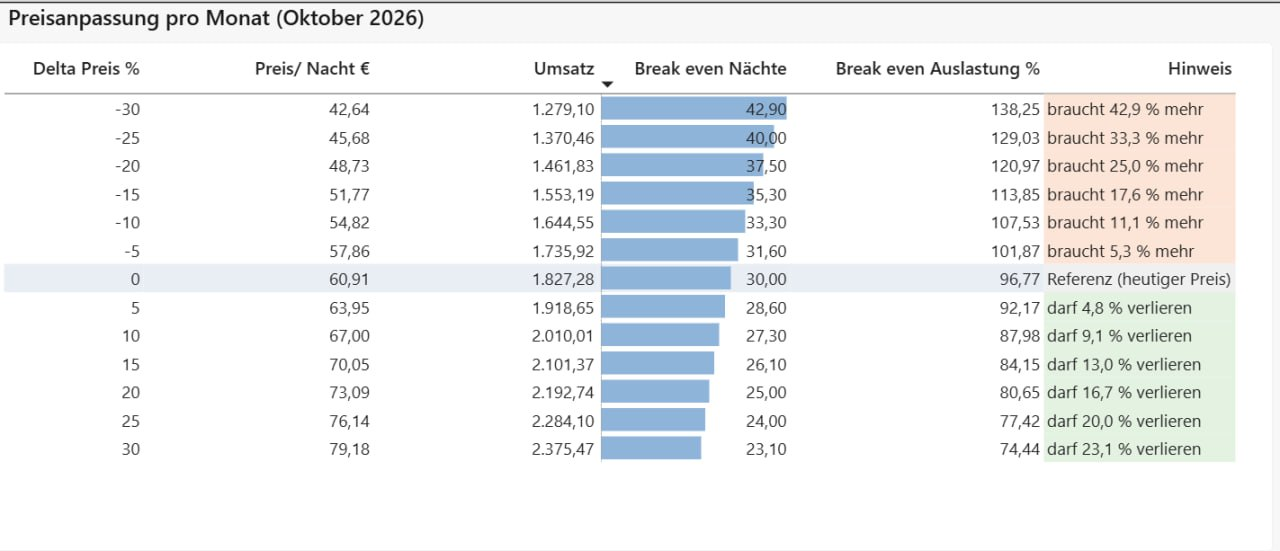
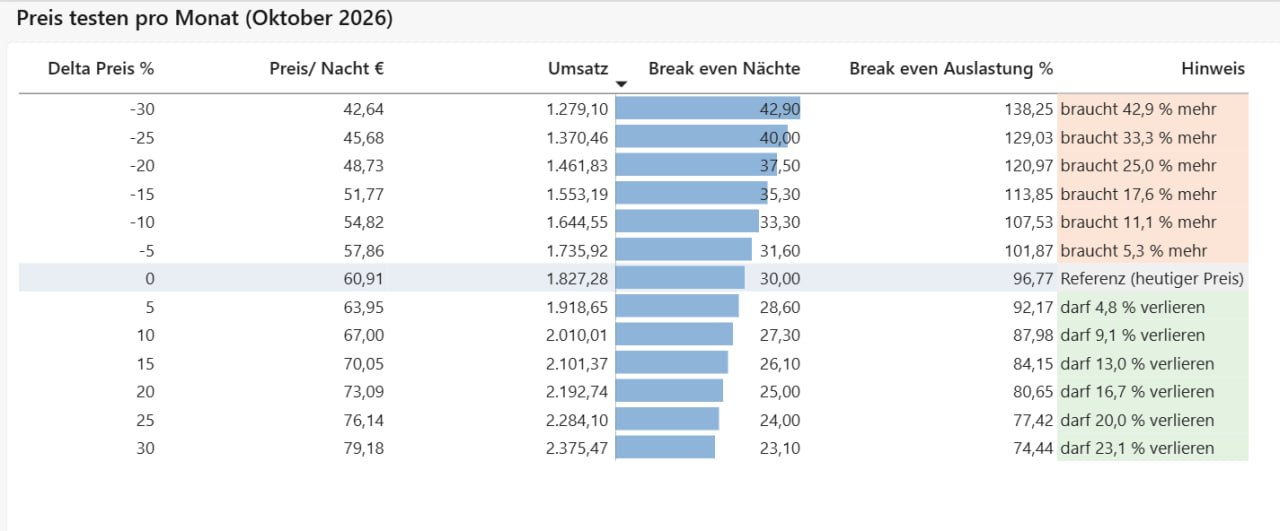
docs: Screenshot der Seite "Preis testen" aktualisiert
Neuer Screenshot mit korrigiertem Seitentitel ("Preis testen pro Monat").
Bildunterschrift im README praezisiert: Momentaufnahme fuer Oktober 2026
(Monat ueber den Slicer waehlbar).

diff --git a/README.md b/README.md
@@ -84,11 +84,12 @@ Ausführliche Measure-Definitionen: [`dax/measures.md`](dax/measures.md)
    [`dax/measures.md`](dax/measures.md) (Abschnitt 8B).
 
 <!-- Screenshot der Seite "Preis testen" -->
-![Preis testen – Break-even je Preisschritt](screenshots/02_preisanpassung.png?v=1)
+![Preis testen – Break-even je Preisschritt](screenshots/02_preisanpassung.png?v=2)
 
-*13 Preisschritte von −30 % bis +30 %. Je Zeile: Preis je Nacht, Umsatz bei
+*Momentaufnahme für **Oktober 2026** (der Monat ist über den Slicer wählbar).
+13 Preisschritte von −30 % bis +30 % – je Zeile: Preis je Nacht, Umsatz bei
 konstanter Auslastung, Break-even-Nächte, Break-even-Auslastung und ein
-Klartext-Hinweis. Grau hervorgehoben = heutiger Preis (Referenz).*
+Klartext-Hinweis. Hervorgehoben = heutiger Preis (Referenz).*
 
 Die Screenshots der Modellansicht und der weiteren Report-Seiten liegen als
 `pbix/eigene_Airbnb_Auswertung.pbix` bei (Power BI Desktop öffnen).
